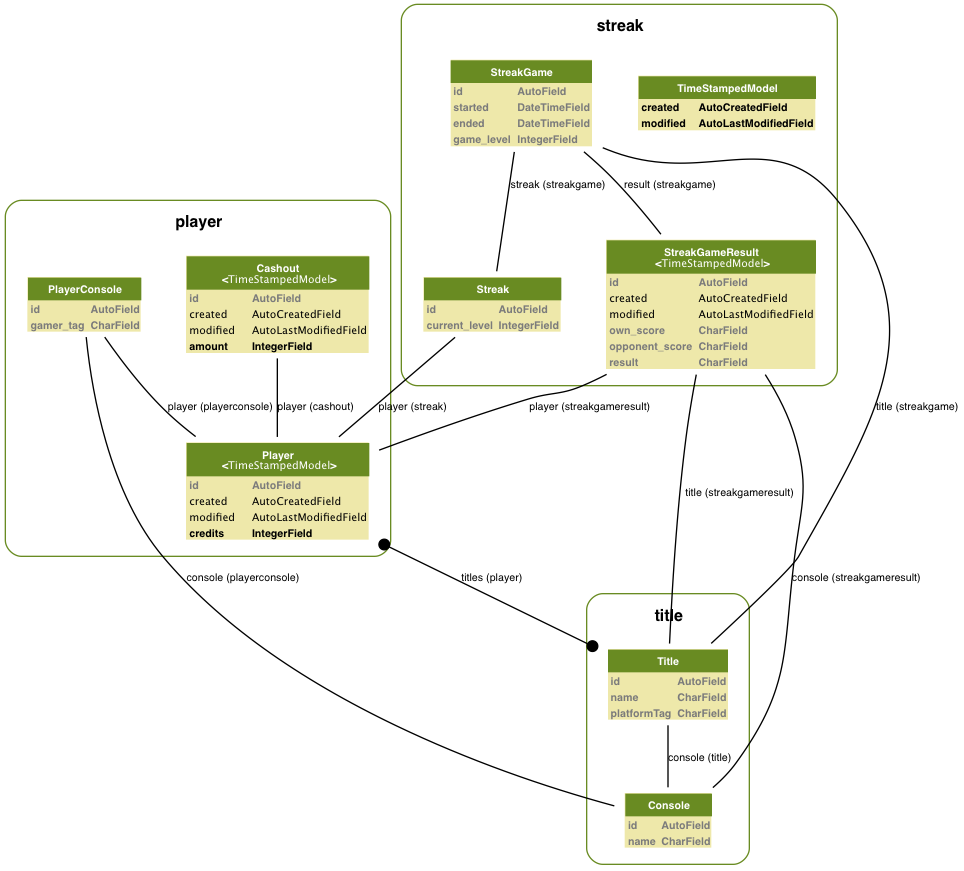
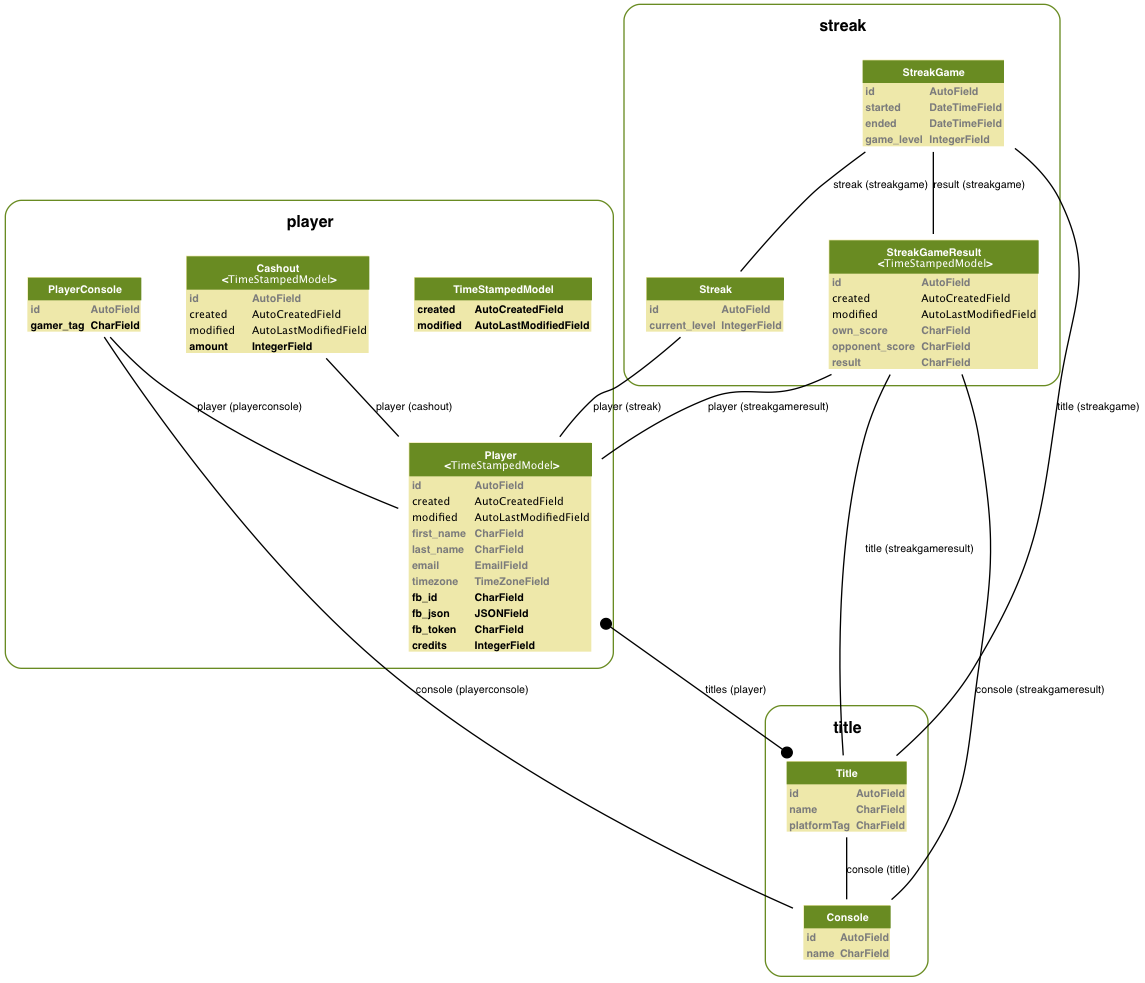
Add FB fields

diff --git a/gotgame/apps/player/models.py b/gotgame/apps/player/models.py
@@ -1,5 +1,7 @@
 from django.db import models
 from model_utils.models import TimeStampedModel
+from timezone_field import TimeZoneField
+from jsonfield import JSONField
 
 from title.models import Console, Title
 
@@ -12,6 +14,16 @@ class Player(TimeStampedModel):
     A player buys credits and has them available.  They can't start a new streak
     if credits are 0.
     """
+    
+    first_name = models.CharField(max_length=100, blank=True)
+    last_name = models.CharField(max_length=100, blank=True)
+    email = models.EmailField(max_length=254, blank=True)
+    timezone = TimeZoneField(blank=True, null=True)
+    
+    fb_id = models.CharField(max_length=150, unique=True)
+    fb_json = JSONField()
+    fb_token = models.CharField(max_length=500, unique=True)
+    
     credits = models.IntegerField(blank=False, null=False, default=0)
     consoles = models.ManyToManyField(Console, through='PlayerConsole')
     titles = models.ManyToManyField(Title)
@@ -30,7 +42,7 @@ class PlayerConsole(models.Model):
     """
     console = models.ForeignKey(Console)
     player = models.ForeignKey(Player)
-    gamer_tag = models.CharField(blank=True, max_length=100)
+    gamer_tag = models.CharField(blank=False, max_length=100)
 
 
 class Cashout(TimeStampedModel):

diff --git a/gotgame/apps/streak/models.py b/gotgame/apps/streak/models.py
@@ -17,7 +17,7 @@ class Streak(models.Model):
     Each time a player wins, the current_level is doubled.
     """
     player = models.ForeignKey(Player)
-    current_level = models.IntegerField(blank=True, null=True, choices=constants.valid_levels())
+    current_level = models.IntegerField(blank=False, choices=constants.valid_levels())
 
 
 class StreakGame(models.Model):
@@ -29,7 +29,7 @@ class StreakGame(models.Model):
     streak = models.ForeignKey(Streak)
     title = models.ForeignKey(Title)
     result = models.ForeignKey('StreakGameResult')
-    game_level = models.IntegerField(blank=True, null=True, choices=constants.valid_levels())
+    game_level = models.IntegerField(blank=False, choices=constants.valid_levels())
 
 
 
